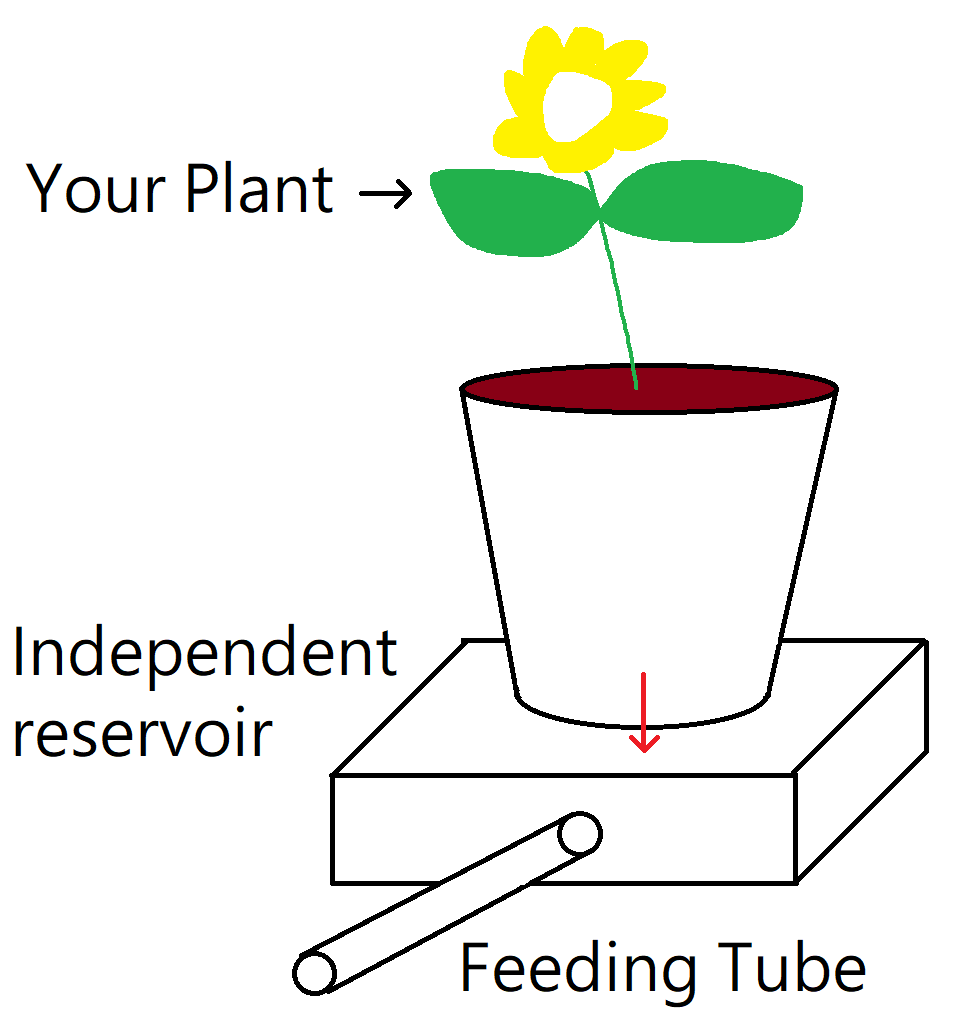
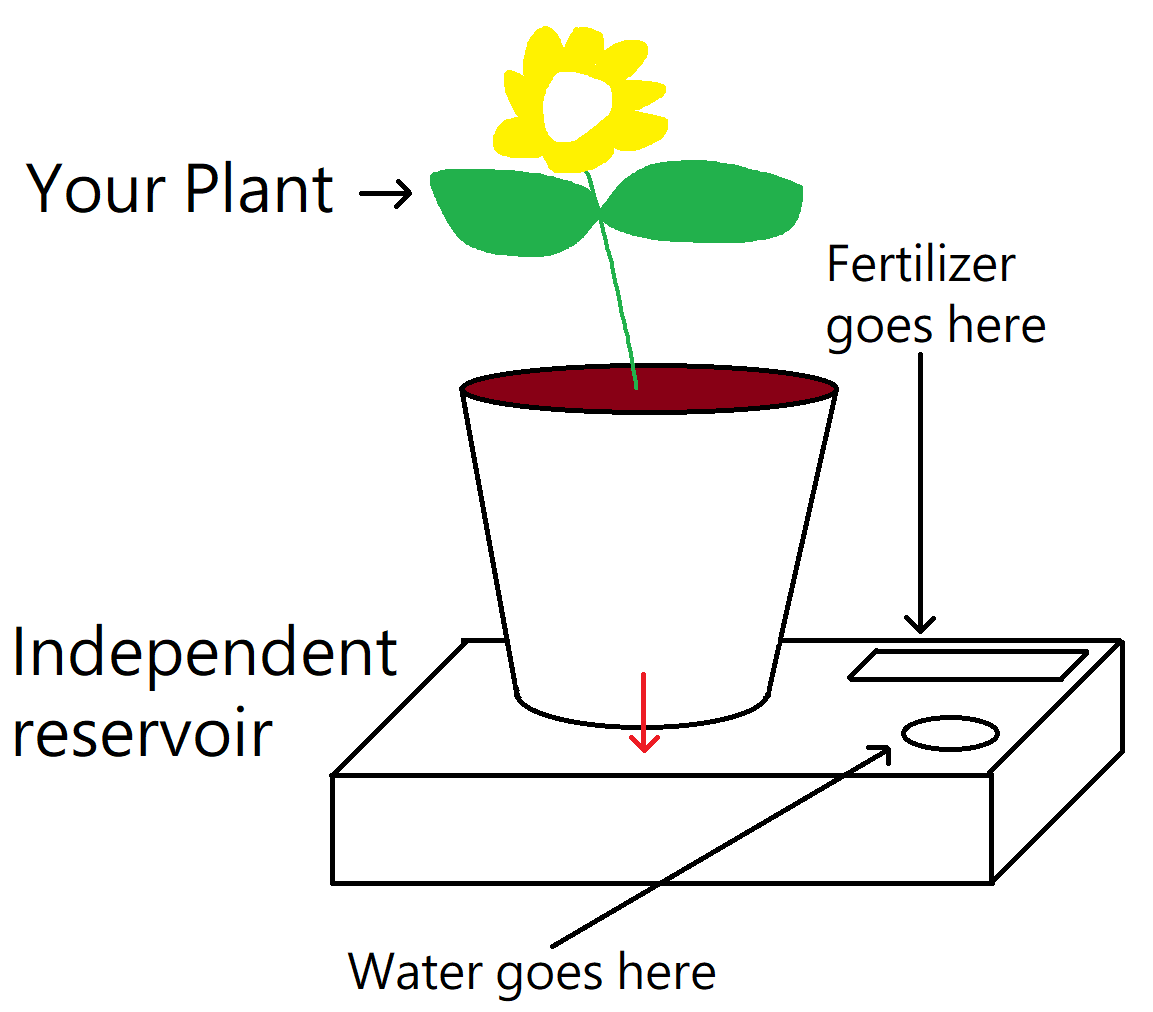
a

diff --git a/index.html b/index.html
@@ -45,18 +45,14 @@
     </div>
     <br>
     <div style = "width:80%; display: inline-block;text-align:center;">
-        <p style="font-size:2.5vw ;display: inline-block;text-align:center;margin:10px"> Just with 3 easy steps </p>
+        <p style="font-size:2.5vw ;display: inline-block;text-align:center;margin:10px"> Just with 2 easy steps </p>
         <br></br>
         <div id = "step_sec">
             <p style="font-size:2.5vw ;text-align:left;margin:0px"> Step 1 </p>
             <img class ="steps_pic" src="pics/Step1.png" >
-            <p style="font-size:2.5vw ;text-align:left;margin:0px"> Insert the tubes to your plant's container </p>
+            <p style="font-size:2.5vw ;text-align:left;margin:0px"> Insert the tubes to your plant's container and fill up PONDS with water, fertilizer</p>
             <br>
             <p style="font-size:2.5vw ;text-align:left;margin:0px"> Step 2 </p>
-            <img class ="steps_pic" src="pics/Step2.png" >
-            <p style="font-size:2.5vw ;text-align:left;margin:0px"> Fill up PONDS with water, fertilizer, and connect to the independent reservoirs</p>
-            <br>
-            <p style="font-size:2.5vw ;text-align:left;margin:0px"> Step 3 </p>
             <img class ="steps_pic" src="pics/Step3.png" >
             <p style="font-size:2.5vw ;text-align:left;margin:0px"> Setup the App </p>
             <br>
@@ -94,7 +90,7 @@
     </div>
     
     <div style="width:30%;height:10vh;display:inline-block;background-color:green;text-align:center;z-index: 99;position:relative;"> 
-        <a style="display:inline-block;width:100%;height:100%; z-index: 101;position:relative" href="https://docs.google.com/forms/d/e/1FAIpQLSfokA65wF7ZRvRGOaCL6EHRG2ItKGCdrrm-tZyv5qzmnbqtRA/viewform?usp=pp_url"></a>
+        <a style="display:inline-block;width:100%;height:100%; z-index: 101;position:relative" href="https://forms.gle/rDzTEtBi9ivuVdwz5"></a>
         <p style="display:inline-block;color:white;font-size:min(5vh,5vw);width:100%; z-index: 100; position:absolute;right:50%;top:50%;transform:translate(50%,-50%);margin:0"> Feedback </p>
     </div>
 
